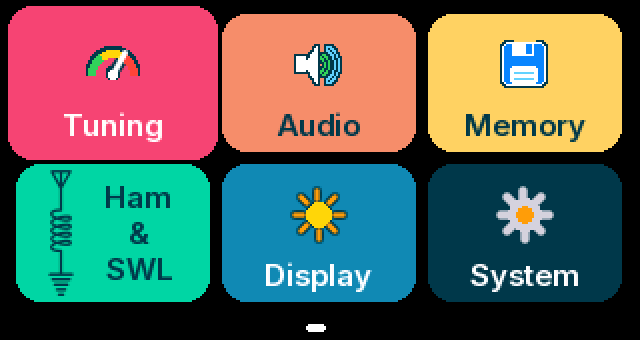
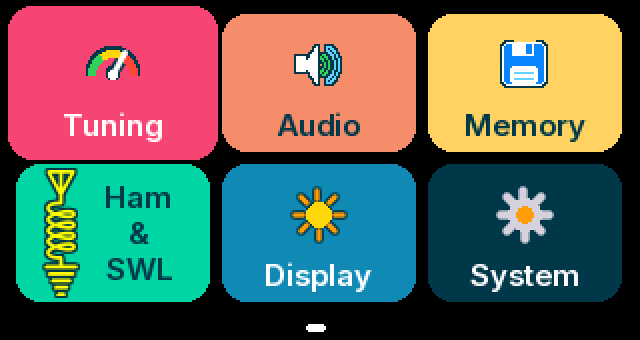
Ham & SWL tile: the symbol in yellow, its two straight wires shortened
Shorter wires from the aerial to the coil and from the coil to earth let the drawing be larger in the same height (17 pixels wide where it was 13). Yellow, the symbol's own colour, with a dark edge.

Changed region(s): [[0.0625, 0.4706, 0.125, 0.8824]]

diff --git a/ats-mini/TileDraw.h b/ats-mini/TileDraw.h
@@ -88,75 +88,76 @@ static void tileFillGradient(S &s, int x, int y, int w, int h, int r, uint16_t t
 // The Ham & SWL picture: the drawing inside the international amateur radio
 // symbol (aerial, coil, earth), line for line from tools/ham-symbol.svg. It
 // is a table of how much ink each pixel has, blended into the tile, so that
-// its thin lines keep their soft edges.
+// its thin lines keep their soft edges. The two straight wires are shorter
+// than in the symbol, which lets the rest be larger.
 // tools/ham_icon.py writes the next table
-#define TILE_HAM_W 13
+#define TILE_HAM_W 17
 #define TILE_HAM_H 63
 static const uint8_t tileHamInk[TILE_HAM_W * TILE_HAM_H] =
 {
-    0, 120, 223, 223, 223, 223, 223, 223, 223, 223, 223, 147,   0,
-    0, 112, 251, 112,  96, 116, 255, 116,  96, 100, 247, 108,   0,
-    0,   4, 219, 128,   0,  32, 255,  32,   0, 108, 215,   4,   0,
-    0,   0,  88, 247,  24,  32, 255,  32,  16, 235,  76,   0,   0,
-    0,   0,   0, 199, 159,  32, 255,  32, 140, 187,   0,   0,   0,
-    0,   0,   0,  60, 251,  80, 255,  68, 247,  44,   0,   0,   0,
-    0,   0,   0,   0, 171, 215, 255, 207, 152,   0,   0,   0,   0,
-    0,   0,   0,   0,  36, 251, 255, 239,  24,   0,   0,   0,   0,
-    0,   0,   0,   0,   0, 148, 255, 120,   0,   0,   0,   0,   0,
-    0,   0,   0,   0,   0,  40, 255,  32,   0,   0,   0,   0,   0,
-    0,   0,   0,   0,   0,  32, 255,  32,   0,   0,   0,   0,   0,
-    0,   0,   0,   0,   0,  32, 255,  32,   0,   0,   0,   0,   0,
-    0,   0,   0,   0,   0,  32, 255,  32,   0,   0,   0,   0,   0,
-    0,   0,   0,   0,   0,  32, 255,  32,   0,   0,   0,   0,   0,
-    0,   0,   0,   0,   0,  32, 255,  32,   0,   0,   0,   0,   0,
-    0,   0,   0,   0,   0,  32, 255,  32,   0,   0,   0,   0,   0,
-    0,   0,   0,   0,   0,  32, 255,  32,   0,   0,   0,   0,   0,
-    0,   0,   0,   0,   0,  32, 255,  32,   0,   0,   0,   0,   0,
-    0,   0,   0,   0,   0,  32, 255,  32,   0,   0,   0,   0,   0,
-    0,   0,   4,  68, 116, 144, 255,  32,   0,   0,   0,   0,   0,
-    0,  64, 219, 247, 207, 191, 171,   8,   0,   0,   0,   0,   0,
-    0, 215, 167,  16,   0,   0,   0,   0,   0,   0,   0,   0,   0,
-    0, 187, 171,   4,   0,   0,  28,  64,  92,  96,  76,   8,   0,
-    0,  56, 215, 231, 144, 203, 255, 251, 223, 223, 243, 175,   0,
-    0,   4, 140, 255, 231, 255, 239, 163, 128, 128, 199, 199,   0,
-    0, 159, 211,  52,   0,  40,  88, 144, 187, 187, 155,  40,   0,
-    0, 191, 152,   4,   0,   0,   4,  48,  76,  92,  48,   0,   0,
-    0,  48, 215, 207, 124, 191, 243, 255, 239, 223, 255, 155,   0,
-    0,   4, 140, 255, 251, 255, 239, 144, 112,  96, 191, 215,   0,
-    0, 163, 211,  76,   0,  64, 120, 175, 203, 219, 175,  60,   0,
-    0, 211, 132,   0,   0,   0,   4,  48,  76,  92,  48,   0,   0,
-    0,  68, 235, 203, 124, 191, 243, 255, 239, 223, 255, 159,   0,
-    0,   0, 120, 255, 251, 255, 239, 144, 112,  96, 191, 211,   0,
-    0, 136, 227,  84,   0,  64, 120, 175, 203, 219, 175,  60,   0,
-    0, 199, 136,   0,   0,   0,   0,  16,  60,  60,  28,   0,   0,
-    0,  68, 235, 179,  96, 159, 215, 255, 255, 255, 255, 127,   0,
-    0,   0, 124, 255, 255, 255, 239, 159,  96,  96, 187, 219,   0,
-    0, 116, 251, 116,  16,  76, 155, 191, 219, 223, 203,  76,   0,
-    0, 227, 104,   0,   0,   0,   0,   0,   0,   0,   0,   0,   0,
-    0, 159, 243, 132,  80,  64,  44,   0,   0,   0,   0,   0,   0,
-    0,   4, 108, 195, 243, 255, 255,  24,   0,   0,   0,   0,   0,
-    0,   0,   0,   0,   0,  32, 255,  32,   0,   0,   0,   0,   0,
-    0,   0,   0,   0,   0,  32, 255,  32,   0,   0,   0,   0,   0,
-    0,   0,   0,   0,   0,  32, 255,  32,   0,   0,   0,   0,   0,
-    0,   0,   0,   0,   0,  32, 255,  32,   0,   0,   0,   0,   0,
-    0,   0,   0,   0,   0,  32, 255,  32,   0,   0,   0,   0,   0,
-    0,   0,   0,   0,   0,  32, 255,  32,   0,   0,   0,   0,   0,
-    0,   0,   0,   0,   0,  32, 255,  32,   0,   0,   0,   0,   0,
-    0,   0,   0,   0,   0,  32, 255,  32,   0,   0,   0,   0,   0,
-    0,   0,   0,   0,   0,  32, 255,  32,   0,   0,   0,   0,   0,
-    0,   0,   0,   0,   0,  32, 255,  32,   0,   0,   0,   0,   0,
-   32, 128, 128, 128, 128, 144, 255, 144, 128, 128, 128, 128,  60,
-  131, 223, 223, 223, 223, 223, 223, 223, 223, 223, 223, 223, 131,
-    0,   0,   0,   0,   0,   0,   0,   0,   0,   0,   0,   0,   0,
-    0,  60, 255, 255, 255, 255, 255, 255, 255, 255, 255,  88,   0,
-    0,  16,  96,  96,  96,  96,  96,  96,  96,  96,  96,  16,   0,
-    0,   0,   0,  84,  96,  96,  96,  96,  96,  92,   8,   0,   0,
-    0,   0,  52, 247, 255, 255, 255, 255, 255, 251,  60,   0,   0,
-    0,   0,   0,   0,   0,   0,   0,   0,   0,   0,   0,   0,   0,
-    0,   0,   0,  24, 191, 223, 223, 223, 211,  32,   0,   0,   0,
-    0,   0,   0,   8, 116, 128, 128, 128, 116,   8,   0,   0,   0,
-    0,   0,   0,   0,   0,  72,  96,  84,   4,   0,   0,   0,   0,
-    0,   0,   0,   0,  32, 235, 255, 243,  36,   0,   0,   0,   0,
+    0,  48, 215, 255, 255, 255, 255, 255, 255, 255, 255, 255, 255, 255, 255,  88,   0,
+    0,  80, 255, 239, 191, 191, 191, 215, 255, 215, 191, 191, 191, 243, 255,  80,   0,
+    0,   0, 203, 251,  36,   0,   0,  96, 255,  96,   0,   0,  36, 251, 199,   0,   0,
+    0,   0,  64, 255, 163,   0,   0,  96, 255,  96,   0,   0, 175, 255,  60,   0,   0,
+    0,   0,   0, 183, 255,  48,   0,  96, 255,  96,   0,  60, 255, 175,   0,   0,   0,
+    0,   0,   0,  48, 255, 187,   0,  96, 255,  96,   0, 199, 251,  36,   0,   0,   0,
+    0,   0,   0,   0, 159, 255,  64,  96, 255,  96,  84, 255, 148,   0,   0,   0,   0,
+    0,   0,   0,   0,  36, 247, 207,  96, 255, 100, 219, 239,  24,   0,   0,   0,   0,
+    0,   0,   0,   0,   0, 144, 255, 183, 255, 207, 255, 124,   0,   0,   0,   0,   0,
+    0,   0,   0,   0,   0,  20, 239, 255, 255, 255, 231,   8,   0,   0,   0,   0,   0,
+    0,   0,   0,   0,   0,   0, 128, 255, 255, 255,  96,   0,   0,   0,   0,   0,   0,
+    0,   0,   0,   0,   0,   0,   8, 231, 255, 207,   4,   0,   0,   0,   0,   0,   0,
+    0,   0,   0,   0,   0,   0,   0, 120, 255, 104,   0,   0,   0,   0,   0,   0,   0,
+    0,   0,   0,   0,   0,   0,   0,  96, 255,  96,   0,   0,   0,   0,   0,   0,   0,
+    0,   0,   0,   0,   0,   0,   0,  96, 255,  96,   0,   0,   0,   0,   0,   0,   0,
+    0,   0,   0,   0,   4,  44,  64, 152, 255,  96,   0,   0,   0,   0,   0,   0,   0,
+    0,   0,  40, 167, 239, 255, 255, 255, 255,  84,   0,   0,   0,   0,   0,   0,   0,
+    0,  52, 243, 255, 207, 151, 128, 100,  80,   0,   0,   0,   0,   0,   0,   0,   0,
+    0, 183, 247,  64,   0,   0,   0,   0,   0,   0,   0,   0,   0,   0,   0,   0,   0,
+    0, 207, 243,  48,   0,   0,   0,   0,   0,   0,  12,  32,  32,   4,   0,   0,   0,
+    0,  84, 255, 247, 132,  16,  36, 116, 163, 227, 255, 255, 255, 251, 183,  40,   0,
+    0,   0,  68, 223, 255, 251, 255, 255, 255, 219, 167, 159, 159, 195, 251, 191,   0,
+    0,   0,  68, 223, 255, 251, 255, 255, 251, 211, 159, 128, 128, 163, 251, 199,   0,
+    0,  84, 255, 247, 132,  16,  36, 120, 183, 243, 255, 255, 255, 255, 191,  40,   0,
+    0, 211, 247,  48,   0,   0,   0,   0,   0,   8,  32,  52,  64,  32,   0,   0,   0,
+    0, 167, 255, 167,  28,   0,   0,   4,  56, 100, 140, 159, 159, 155,  68,   0,   0,
+    0,  16, 195, 255, 235, 136, 163, 243, 255, 255, 255, 255, 255, 255, 251, 124,   0,
+    0,   0,   0, 191, 255, 255, 255, 255, 247, 160,  80,  32,  32,  80, 247, 219,   0,
+    0,  16, 195, 255, 235, 136, 163, 243, 255, 255, 255, 255, 255, 255, 251, 128,   0,
+    0, 171, 255, 167,  28,   0,   0,   4,  56, 100, 140, 179, 191, 159,  68,   0,   0,
+    0, 211, 247,  56,   0,   0,   0,   0,   0,   4,  44,  64,  64,  52,   4,   0,   0,
+    0,  84, 251, 255, 136,  40,  68, 151, 215, 255, 255, 255, 255, 255, 215,  60,   0,
+    0,   0,  52, 223, 255, 255, 255, 255, 247, 175, 136, 128, 128, 144, 247, 203,   0,
+    0,   0,  80, 239, 255, 239, 255, 255, 255, 239, 199, 159, 159, 195, 255, 191,   0,
+    0, 104, 255, 247, 100,   4,  36,  88, 151, 195, 235, 255, 255, 251, 163,  28,   0,
+    0, 215, 243,  52,   0,   0,   0,   0,   0,   0,   0,  20,  32,   4,   0,   0,   0,
+    0, 167, 255, 195,  28,   0,   0,  24,  88, 132, 171, 191, 203, 179,  92,   4,   0,
+    0,  12, 175, 255, 247, 167, 195, 255, 255, 255, 255, 247, 231, 251, 255, 147,   0,
+    0,   0,   4, 179, 255, 255, 255, 255, 247, 160,  80,  32,  40,  96, 247, 215,   0,
+    0,  24, 203, 255, 231, 132, 132, 215, 255, 255, 255, 255, 255, 255, 247, 104,   0,
+    0, 179, 255, 167,  12,   0,   0,   0,  24,  68, 108, 147, 144, 124,  40,   0,   0,
+    0, 211, 231,   8,   0,   0,   0,   0,   0,   0,   0,   0,   0,   0,   0,   0,   0,
+    0, 116, 251, 207, 100,  40,   4,   0,   0,   0,   0,   0,   0,   0,   0,   0,   0,
+    0,   4, 124, 243, 255, 255, 255, 255, 239,  48,   0,   0,   0,   0,   0,   0,   0,
+    0,   0,   0,  24, 104, 151, 187, 215, 255,  96,   0,   0,   0,   0,   0,   0,   0,
+    0,   0,   0,   0,   0,   0,   0,  96, 255,  96,   0,   0,   0,   0,   0,   0,   0,
+    0,   0,   0,   0,   0,   0,   0,  96, 255,  96,   0,   0,   0,   0,   0,   0,   0,
+   16, 128, 128, 128, 128, 128, 128, 176, 255, 176, 128, 128, 128, 128, 128, 128,  52,
+  163, 255, 255, 255, 255, 255, 255, 255, 255, 255, 255, 255, 255, 255, 255, 255, 207,
+   32,  96,  96,  96,  96,  96,  96,  96,  96,  96,  96,  96,  96,  96,  96,  96,  32,
+    0,   0,   0,   0,   0,   0,   0,   0,   0,   0,   0,   0,   0,   0,   0,   0,   0,
+    0,  24, 183, 255, 255, 255, 255, 255, 255, 255, 255, 255, 255, 255, 239,  48,   0,
+    0,  36, 207, 223, 223, 223, 223, 223, 223, 223, 223, 223, 223, 223, 207,  36,   0,
+    0,   0,   0,   0,   0,   0,   0,   0,   0,   0,   0,   0,   0,   0,   0,   0,   0,
+    0,   0,   0,   0, 159, 159, 159, 159, 159, 159, 159, 159, 159,  56,   0,   0,   0,
+    0,   0,   0, 143, 255, 255, 255, 255, 255, 255, 255, 255, 255, 167,   0,   0,   0,
+    0,   0,   0,   8,  64,  64,  64,  64,  64,  64,  64,  64,  64,   8,   0,   0,   0,
+    0,   0,   0,   0,   0,  32,  64,  64,  64,  64,  64,  40,   0,   0,   0,   0,   0,
+    0,   0,   0,   0,  32, 192, 255, 255, 255, 255, 255, 251,  44,   0,   0,   0,   0,
+    0,   0,   0,   0,   4, 132, 159, 159, 159, 159, 159, 132,   4,   0,   0,   0,   0,
+    0,   0,   0,   0,   0,   0,   0,   0,   0,   0,   0,   0,   0,   0,   0,   0,   0,
+    0,   0,   0,   0,   0,   0,  24, 191, 191, 191, 104,   0,   0,   0,   0,   0,   0,
+    0,   0,   0,   0,   0,   0, 183, 255, 255, 255, 183,   0,   0,   0,   0,   0,   0,
 };
 // End of the table of tools/ham_icon.py
 
@@ -1028,10 +1029,17 @@ static void tileDrawPage(S &s, const TileItem *items, int count, int sel, uint16
       // colour, optionally with a deep shadow, or engraved into the tile
       uint16_t topC = gradient ? fill2 : fill;
       // The Ham & SWL picture stands at the left of its tile, as tall as the
-      // tile and in the colour of the name, whose words stand beside it
+      // tile; the words of the name stand beside it
       bool side = items[i].icon == TI_HAM;
       int cx = side ? x + 22 : x + tw / 2, cy = side ? y + th / 2 : y + 25;
-      if(side) tileDrawHam(s, cx, cy, items[i].text ? items[i].text : 0xFFFF);
+      if(side)
+      {
+        // Yellow, the symbol's own colour, on a dark edge that keeps it clear of the tile
+        static const int8_t d[8][2] = {{-1,0},{1,0},{0,-1},{0,1},{-1,-1},{1,-1},{-1,1},{1,1}};
+        uint16_t edge = st.iconOutline ? st.iconOutline : tileBlend(fill, 0x0000, 150);
+        for(int j = 0 ; j < 8 ; j++) tileDrawHam(s, cx + d[j][0], cy + d[j][1], edge);
+        tileDrawHam(s, cx, cy, 0xFFE0);
+      }
       else switch(st.iconMode)
       {
         case 1:

diff --git a/tools/ham_icon.py b/tools/ham_icon.py
@@ -8,8 +8,11 @@ Wikimedia Commons, by Denelson83, released into the public domain), without
 the diamond around it, and reduced to the height of a tile. Nothing is
 redrawn: the script reads the paths of the SVG, draws them at eight times the
 size and reduces them, which keeps the soft edges that make thin lines look
-right on a small screen. The firmware gets a table of how much ink each pixel
-has (0 to 255) and blends it into the tile in the colour of the tile's name.
+right on a small screen. One thing differs from the symbol: the two straight
+wires, from the aerial to the coil and from the coil to earth, are shortened
+(LEAD), so that the rest can be larger in the same height. The firmware gets
+a table of how much ink each pixel has (0 to 255) and blends it into the tile
+in yellow, the symbol's own colour, with a dark edge around it.
 
     tools/ham_icon.py              write the table
     tools/ham_icon.py show x.png   also save a picture, six times enlarged
@@ -29,6 +32,7 @@ BEGIN = "// tools/ham_icon.py writes the next table"
 END = "// End of the table of tools/ham_icon.py"
 HEIGHT = 63                 # Pixels: the tile is 69 high
 WEIGHT = 1.0                # 1: the lines as heavy as in the symbol
+LEAD = 16.0                 # Length kept of each straight wire, in the SVG's units (55 and 58 in the symbol)
 SCALE = 8
 
 
@@ -68,6 +72,30 @@ def picture():
     mirror = float(re.search(r"matrix\(-1,0,0,1,([\d.]+),0\)", group).group(1))
     width = float(re.search(r"stroke-width:([\d.]+)", group).group(1))
     lines = [[(mirror - x, y) for x, y in polyline(d)] for d in re.findall(r'\sd="([^"]+)"', group)]
+    # The wire's four stations, top to bottom: the aerial's point, the coil's
+    # two ends, the first earth bar. The stretches between them are the leads.
+    wire = max(lines, key=len)
+    turns = [y for x, y in wire if abs(x - wire[0][0]) > 1]
+    coil_top, coil_bottom = min(turns), max(turns)
+    coil_top = max(y for x, y in wire if y < coil_top + 12 and abs(x - wire[0][0]) < 0.1)
+    coil_bottom = min(y for x, y in wire if y > coil_bottom - 12 and abs(x - wire[0][0]) < 0.1)
+    aerial = min((line for line in lines if line is not wire), key=lambda line: min(y for _, y in line))   # The triangle: the highest shape
+    apex = max(y for _, y in aerial)
+    earth = max(y for _, y in wire)
+    up, down = (coil_top - apex) - LEAD, (earth - coil_bottom) - LEAD
+
+    def shorter(y):
+        if y <= apex:
+            return y + up
+        if y < coil_top:
+            return coil_top - (coil_top - y) * LEAD / (coil_top - apex)
+        if y <= coil_bottom:
+            return y
+        if y < earth:
+            return coil_bottom + (y - coil_bottom) * LEAD / (earth - coil_bottom)
+        return y - down
+
+    lines = [[(x, shorter(y)) for x, y in line] for line in lines]
     xs = [x for line in lines for x, _ in line]
     ys = [y for line in lines for _, y in line]
     x0, x1, y0, y1 = min(xs) - width / 2, max(xs) + width / 2, min(ys) - width / 2, max(ys) + width / 2
@@ -95,7 +123,7 @@ def main():
     HEADER.write_text(text[:a] + table + text[b:])
     if len(sys.argv) == 3 and sys.argv[1] == "show":
         out = Image.new("RGB", im.size, (0, 214, 165))
-        out.paste(Image.new("RGB", im.size, (7, 59, 76)), (0, 0), im)
+        out.paste(Image.new("RGB", im.size, (255, 255, 0)), (0, 0), im)
         out.resize((w * 6, h * 6), Image.NEAREST).save(sys.argv[2])
     print("TileDraw.h: Ham & SWL picture, %d x %d" % (w, h))
 

diff --git a/changelog/+ham-swl-tile.changed.md b/changelog/+ham-swl-tile.changed.md
@@ -1,1 +1,1 @@
-The **Ham & SWL** tile of the menu shows the drawing of the international amateur radio symbol: aerial, coil and earth, line for line from the symbol itself (`tools/ham-symbol.svg`, public domain), at the side of the tile with the name beside it. It had shared the mast of the Beacons tile. `tools/ham_icon.py` reduces the symbol to the tile.
+The **Ham & SWL** tile of the menu shows the drawing of the international amateur radio symbol in yellow: aerial, coil and earth, line for line from the symbol itself (`tools/ham-symbol.svg`, public domain), with its two straight wires shortened so that the rest is larger. It stands at the side of the tile with the name beside it. The tile had shared the mast of the Beacons tile. `tools/ham_icon.py` reduces the symbol to the tile.
